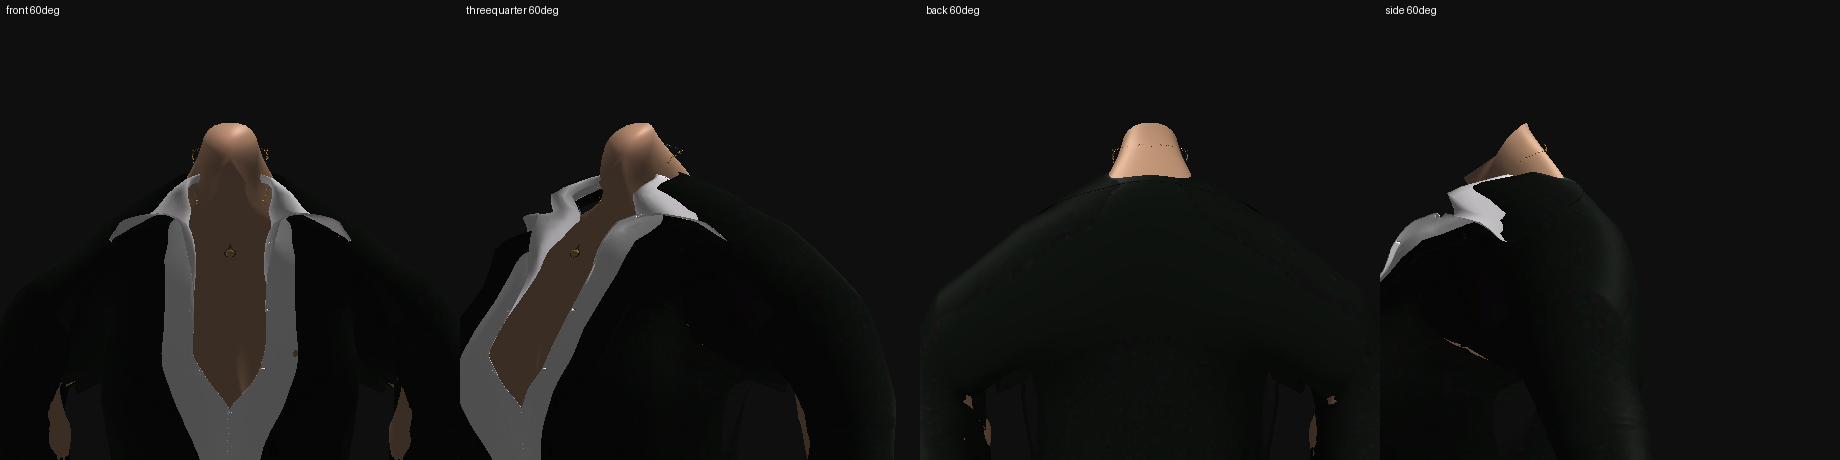
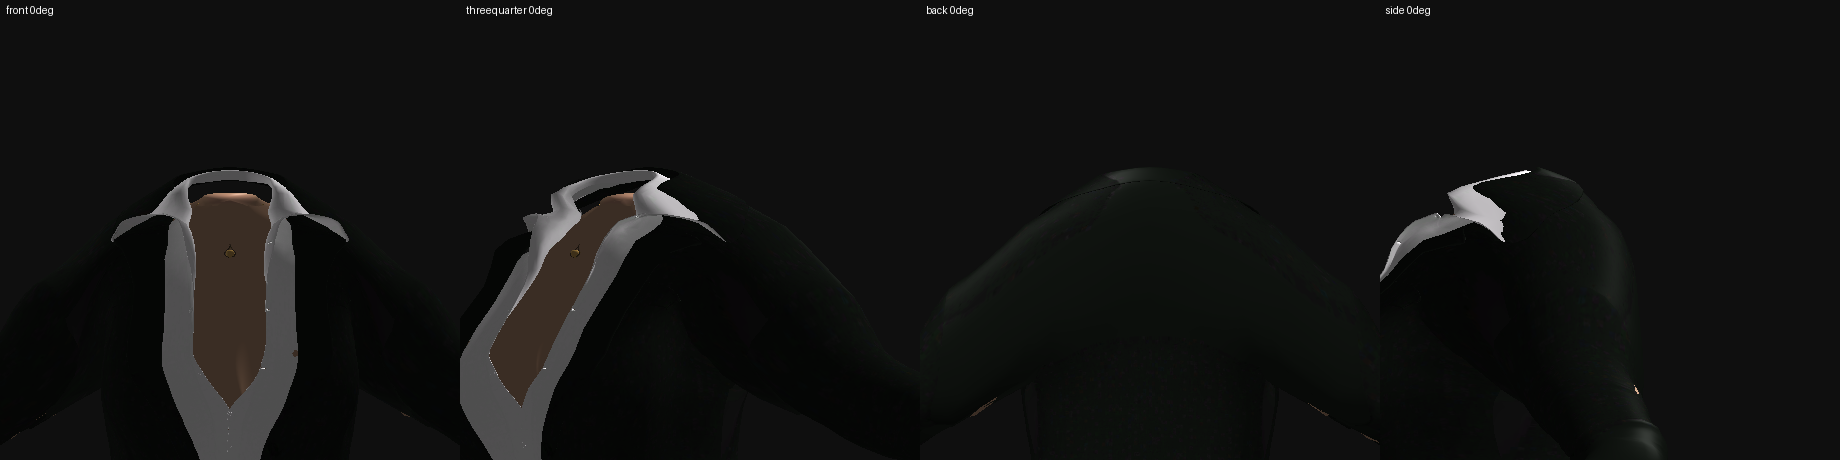
fix(skyrim): fit neck inside collar opening

diff --git a/tools/pd2-las/build_models.py b/tools/pd2-las/build_models.py
@@ -1908,6 +1908,7 @@ def tuck_necklace_chain(g: Group, z_min: float = 156.0, scale: float = 0.80,
             return None
         return float(np.interp(z, [p[0] for p in prof], [p[1] for p in prof]))
 
+    z_top = prof[-1][0] if prof else None
     touched = 0
     for mat, base_v, _bi, _tris, nv in g.slices:
         if mat != "necklace":
@@ -1919,12 +1920,16 @@ def tuck_necklace_chain(g: Group, z_min: float = 156.0, scale: float = 0.80,
             dd = np.hypot(x - ax, y - ay)
             if dd < 1e-6:
                 continue
+            zz = z
+            if z_top is not None and zz > z_top - 0.3:
+                # the loop's top is past the neck's own top: fold it down inside
+                zz = z_top - 0.3
             target = dd * scale
-            nr = neck_r(z)
+            nr = neck_r(zz)
             if nr is not None:
                 target = min(target, nr * 0.75)
             k = target / dd
-            g.verts[i] = (ax + (x - ax) * k, ay + (y - ay) * k, z)
+            g.verts[i] = (ax + (x - ax) * k, ay + (y - ay) * k, zz)
             touched += 1
     return touched
 
@@ -1932,7 +1937,8 @@ def tuck_necklace_chain(g: Group, z_min: float = 156.0, scale: float = 0.80,
 def slim_neck(g: Group, mats=("skin",), axis=(0.0, 7.0),
               z_lo: float = 157.0, z_full: float = 161.0,
               r_full: float = 8.0, r_stop: float = 14.0,
-              sx: float = 0.55, sy: float = 0.70) -> dict:
+              sx: float = 0.55, sy: float = 0.70,
+              z_target: float | None = 160.8, z_ramp: float = 2.0) -> dict:
     """Slim the neck to the PD2 reference, above the trapezius.
 
     The 3BA body is authored for Skyrim, where the *head* mesh supplied most of
@@ -1949,10 +1955,19 @@ def slim_neck(g: Group, mats=("skin",), axis=(0.0, 7.0),
     trapezius and the shoulder line are untouched, ramping in with height
     (``z_lo`` -> ``z_full``) so there is no step at the shoulder.
 
-    Heights are deliberately left alone: the body's neck has to keep reaching
-    the PD2 head joint, and a short neck would open a gap under the jaw. The
-    garment is re-dressed afterwards (``redress_from_source``), so the collar
-    and the lapels come in onto the slimmer neck with it.
+    The height is cut back as well (``z_target``): the collar's opening is *not*
+    sized for a neck. In the Skyrim source the body ends at 157 cm and the collar
+    carries on 2 cm higher, with the **head mesh** filling the opening above it --
+    so above ~158 cm the garments never had to fit around anything. Measured on
+    the port, the shirt's opening at z 161 sits at 1.4-3.8 cm from the neck axis
+    while the neck is at 3.1-4.3: the neck *cannot* fit, which is why it renders
+    through the collar however the collar is moved. Ending the neck where the
+    source does relative to the collar (just inside its opening, ~160.8) is the
+    faithful fix, and it matches the PD2 reference body, whose neck ends at
+    163.2 with the head covering from there.
+
+    The garment is re-dressed afterwards (``redress_from_source``), so the collar
+    and the lapels come in onto the slimmer, shorter neck with it.
     """
     import math
 
@@ -1982,7 +1997,30 @@ def slim_neck(g: Group, mats=("skin",), axis=(0.0, 7.0),
             moved = max(moved, math.hypot(nx - x, ny - y))
             g.verts[i] = (nx, ny, z)
             touched += 1
-    return {"moved": touched, "peak": moved}
+
+    drop = 0.0
+    if z_target is not None:
+        tops = [g.verts[i][2] for mat, base_v, _bi, _t, nv in g.slices
+                if mat in mats for i in range(base_v, base_v + nv)]
+        top = max(tops) if tops else None
+        if top is not None and top > z_target:
+            z_ref = min(z_lo + z_ramp, z_target - 0.5)
+            kz = (z_target - z_ref) / (top - z_ref) if top > z_ref else 1.0
+            for mat, base_v, _bi, _t, nv in g.slices:
+                if mat not in mats:
+                    continue
+                for i in range(base_v, base_v + nv):
+                    x, y, z = g.verts[i]
+                    if z <= z_ref or math.hypot(x - ax, y - ay) > r_stop:
+                        continue
+                    # smooth handover over z_ramp so the shoulder line is a
+                    # continuous surface, then a straight compression above it
+                    t = smooth((z - z_ref) / max(z_ramp, 1e-6)) if z_ramp else 1.0
+                    z_new = z + (z_ref + (z - z_ref) * kz - z) * t
+                    drop = max(drop, z - z_new)
+                    g.verts[i] = (x, y, z_new)
+                    touched += 1
+    return {"moved": touched, "peak": moved, "dropped": drop}
 
 
 

diff --git a/tests/test_neck.py b/tests/test_neck.py
@@ -10,6 +10,8 @@ from __future__ import annotations
 import sys
 from pathlib import Path
 
+import pytest
+
 REPO = Path(__file__).resolve().parents[1]
 sys.path.insert(0, str(REPO / "tools" / "pd2-las"))
 
@@ -40,7 +42,7 @@ def test_slim_neck_narrows_only_the_column():
         (20.0, 7.0, 162.0),     # trapezius, r = 20 > r_stop: untouched
     ])])
 
-    rep = bm.slim_neck(g)
+    rep = bm.slim_neck(g, z_target=None)
 
     assert rep["moved"] == 1
     assert g.verts[0] == (0.0, 7.0, 150.0)
@@ -55,7 +57,7 @@ def test_slim_neck_ramps_in_with_height():
     """A vertex at the bottom of the ramp moves less than one at the top."""
     g = _group([("skin", [(9.0, 7.0, 158.0), (9.0, 7.0, 162.0)])])
 
-    bm.slim_neck(g)
+    bm.slim_neck(g, z_target=None)
 
     low = 9.0 - g.verts[0][0]
     high = 9.0 - g.verts[1][0]
@@ -67,7 +69,7 @@ def test_slim_neck_leaves_the_garment_alone():
     g = _group([("skin", [(9.0, 7.0, 162.0)]),
                 ("jacket", [(9.0, 7.0, 162.0)])])
 
-    rep = bm.slim_neck(g)
+    rep = bm.slim_neck(g, z_target=None)
 
     assert rep["moved"] == 1
     assert g.verts[1] == (9.0, 7.0, 162.0)
@@ -90,3 +92,36 @@ def test_tuck_necklace_chain_ignores_other_materials():
 
     assert bm.tuck_necklace_chain(g) == 0
     assert g.verts[0] == (6.0, 7.0, 160.0)
+
+
+def test_slim_neck_ends_the_neck_inside_the_collar():
+    """The neck is cut back to the height the collar can actually fit.
+
+    In the Skyrim source the body stops at 157 cm and the head fills the collar's
+    opening, so above ~158 cm the garments were never shaped around a neck: the
+    port's collar opening is *narrower* than its neck there (z 161: opening
+    1.4-3.8 cm from the axis, neck 3.1-4.3), which is why the neck came through
+    the collar. The body's neck therefore ends just inside the opening.
+    """
+    g = _group([("skin", [(0.0, 7.0, 150.0), (3.0, 7.0, 160.0),
+                          (3.0, 7.0, 164.0), (3.0, 7.0, 167.0)])])
+
+    rep = bm.slim_neck(g, z_target=160.8, z_ramp=2.0)
+
+    top = max(v[2] for v in g.verts)
+    assert top == pytest.approx(160.8, abs=0.05)
+    assert rep["dropped"] == pytest.approx(6.2, abs=0.1)
+    assert g.verts[0] == (0.0, 7.0, 150.0)      # below the band: untouched
+    assert g.verts[1][2] == pytest.approx(159.6125, abs=0.05)  # smooth ramp starts at 159
+
+
+def test_slim_neck_shortening_only_touches_its_materials():
+    """The collar must keep its height: only ``mats`` are cut back."""
+    g = _group([("skin", [(3.0, 7.0, 167.0), (20.0, 7.0, 167.0)]),
+                ("jacket2", [(3.0, 7.0, 167.0)])])
+
+    bm.slim_neck(g, z_target=160.8)
+
+    assert g.verts[0][2] == pytest.approx(160.8, abs=0.05)
+    assert g.verts[1][2] == 167.0          # outer shoulder stays put
+    assert g.verts[2][2] == 167.0          # garment remains untouched

diff --git a/tools/pd2-las/build_business_woman.py b/tools/pd2-las/build_business_woman.py
@@ -348,7 +348,7 @@ def main(argv=None) -> int:
     for gname in ("body", "shadow"):
         rep = bm.slim_neck(groups[gname])
         print(f"[{gname}] neck slimmed: {rep['moved']} verts, "
-              f"peak {rep['peak']:.1f} cm")
+              f"peak {rep['peak']:.1f} cm, top lowered {rep['dropped']:.1f} cm")
 
     # The retarget gets the body right but drags the garment's neckline out and
     # down over the trapezius (the blazer's neck opening flares from the neck

diff --git a/docs/skyrim-nif/FIXES-2026-11-04.md b/docs/skyrim-nif/FIXES-2026-11-04.md
@@ -358,3 +358,29 @@ rim.
 
 Zip regenerated: `dist/BusinessWoman_LAS.zip` sha256
[1 lines of base64/hex data omitted]
+
+---
+
+# Round 5 — the neck is too tall for the collar opening
+
+The actual intersection was not a collar rim that needed to be pushed outward.
+The Skyrim body ends at 157 cm and hands the neck over to the head mesh; the
+collar continues above that body edge and was designed to sit around the head's
+neck opening. On the port, however, the retargeted body kept a skin column up to
+about 167 cm. At z 161 the shirt's back opening was only 1.4–3.8 cm from the
+neck axis while the skin was 3.1–4.3 cm out; at z 162, shirt back vertices were
+at 0.1–2.7 cm while neck vertices reached 3.5–4.9 cm. The surfaces necessarily
+crossed. Moving the whole collar also damages the shared collar/lapel boundary.
+
+`slim_neck` now preserves the narrow profile pass and compresses only the skin
+neck column (within the 14 cm neck radius) to end just inside the opening
+(160.8 cm), with a smooth 2 cm handover. The arms/shoulder silhouette beyond
+that radius and all shirt and jacket vertices stay in place. The necklace chain's top is also folded below the shortened
+neck's end before its radial clamp, preventing the loop from floating above the
+collar.
+
+The neck regression tests pin the ending height, ramp, and material isolation.
+Current offline closeups are in `previews/business_woman_neck_closeup.png` and
+`previews/business_woman_neck.png`. Full test run: **440 passed, 10 skipped**;
+one known unrelated baseline failure remains in `test_retarget_joint_errors_and_palettes`
+(`tpp RightArm`, 5.713 cm versus the test's 5 cm threshold).
